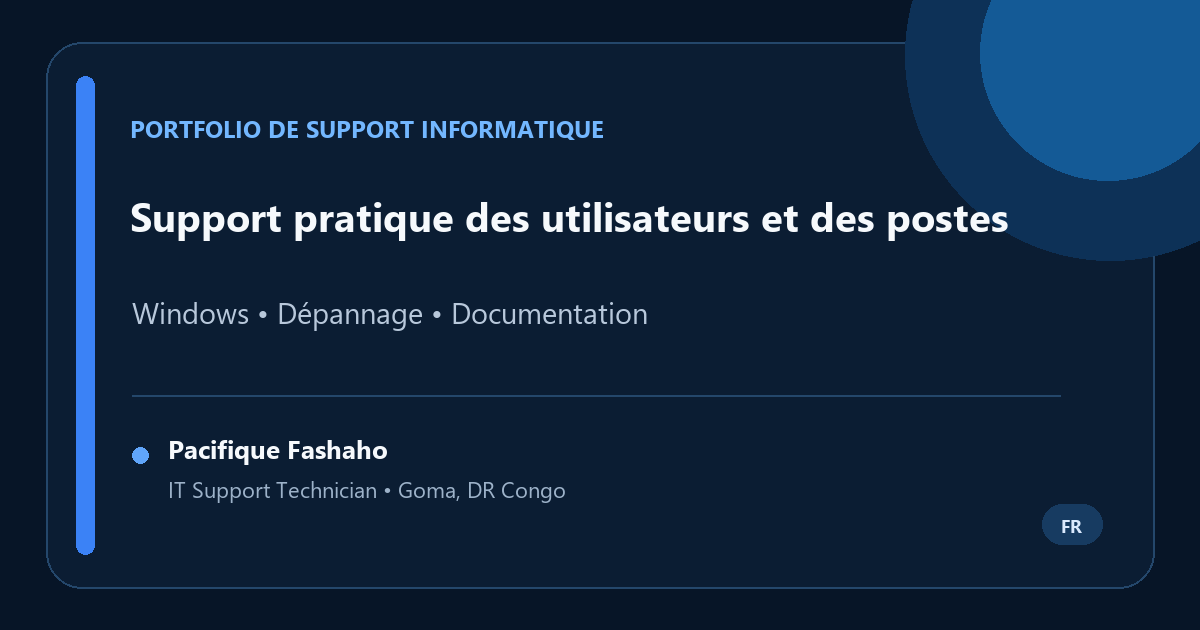
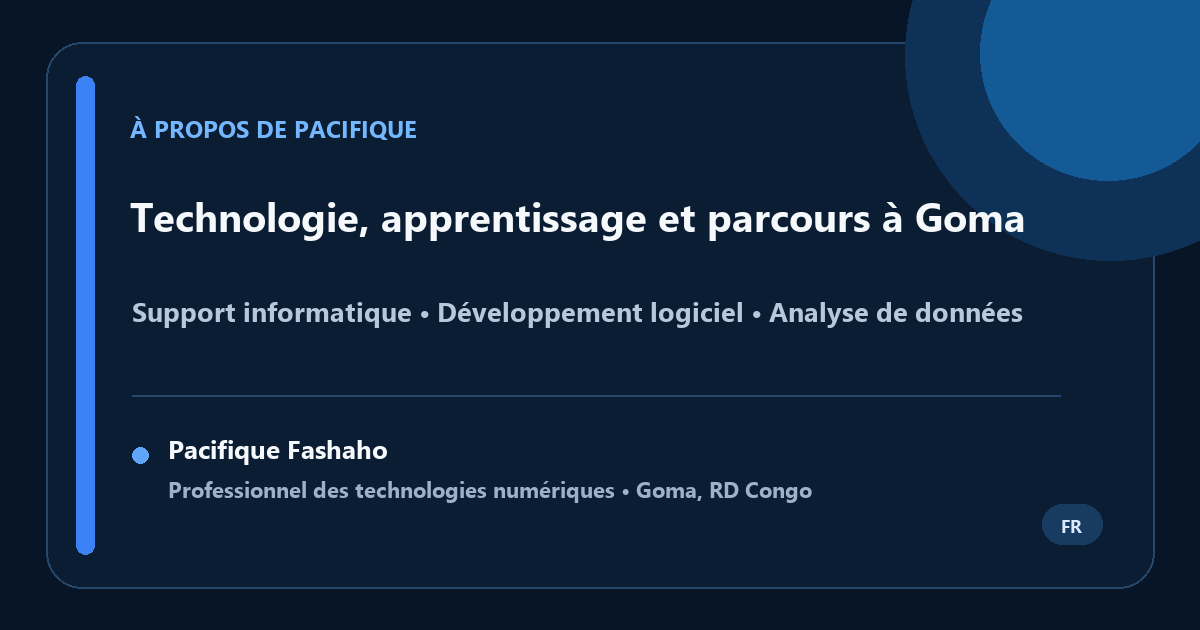
Align About visuals and navigation

diff --git a/fr/index.html b/fr/index.html
@@ -3,7 +3,7 @@
 <title>À propos de Pacifique Fashaho | Technologie, apprentissage et parcours à Goma</title><meta name="description" content="Découvrez Pacifique Fashaho, professionnel des technologies numériques à Goma, actif en support informatique, développement logiciel et analyse de données tout en poursuivant ses études en informatique." /><meta name="author" content="Pacifique Fashaho" /><meta name="robots" content="index, follow" /><meta name="theme-color" content="#2563eb" />
 <link rel="canonical" href="https://pacifiquefashaho.github.io/fr/" /><link rel="alternate" hreflang="en" href="https://pacifiquefashaho.github.io/" /><link rel="alternate" hreflang="fr" href="https://pacifiquefashaho.github.io/fr/" /><link rel="alternate" hreflang="x-default" href="https://pacifiquefashaho.github.io/" />
 <link rel="icon" href="../assets/images/ui/favicon.ico" /><link rel="apple-touch-icon" href="../assets/images/ui/apple-touch-icon.png" /><link rel="stylesheet" href="../assets/css/style.css" /><link rel="stylesheet" href="../assets/css/pages.css" /><link rel="stylesheet" href="../assets/css/about.css" />
-<meta property="og:title" content="À propos de Pacifique Fashaho | Technologie, apprentissage et parcours à Goma" /><meta property="og:description" content="Une introduction personnelle à mon travail, mon apprentissage et ma pratique technologique à Goma." /><meta property="og:image" content="https://pacifiquefashaho.github.io/assets/images/social/home-fr.png" /><meta property="og:image:type" content="image/png" /><meta property="og:image:width" content="1200" /><meta property="og:image:height" content="630" /><meta property="og:image:alt" content="Aperçu du portfolio technologique de Pacifique Fashaho" /><meta property="og:url" content="https://pacifiquefashaho.github.io/fr/" /><meta property="og:type" content="profile" /><meta property="og:site_name" content="Portfolio de Pacifique Fashaho" /><meta property="og:locale" content="fr_FR" /><meta property="og:locale:alternate" content="en_US" /><meta name="twitter:card" content="summary_large_image" /><meta name="twitter:title" content="À propos de Pacifique Fashaho" /><meta name="twitter:description" content="Mon travail, mon apprentissage et ma pratique technologique à Goma." /><meta name="twitter:image" content="https://pacifiquefashaho.github.io/assets/images/social/home-fr.png" /><meta name="twitter:image:alt" content="Aperçu du portfolio technologique de Pacifique Fashaho" />
+<meta property="og:title" content="À propos de Pacifique Fashaho | Technologie, apprentissage et parcours à Goma" /><meta property="og:description" content="Une introduction personnelle à mon travail, mon apprentissage et ma pratique technologique à Goma." /><meta property="og:image" content="https://pacifiquefashaho.github.io/assets/images/social/home-fr.png" /><meta property="og:image:type" content="image/png" /><meta property="og:image:width" content="1200" /><meta property="og:image:height" content="630" /><meta property="og:image:alt" content="À propos de Pacifique Fashaho — technologie, apprentissage et parcours à Goma" /><meta property="og:url" content="https://pacifiquefashaho.github.io/fr/" /><meta property="og:type" content="profile" /><meta property="og:site_name" content="Portfolio de Pacifique Fashaho" /><meta property="og:locale" content="fr_FR" /><meta property="og:locale:alternate" content="en_US" /><meta name="twitter:card" content="summary_large_image" /><meta name="twitter:title" content="À propos de Pacifique Fashaho" /><meta name="twitter:description" content="Mon travail, mon apprentissage et ma pratique technologique à Goma." /><meta name="twitter:image" content="https://pacifiquefashaho.github.io/assets/images/social/home-fr.png" /><meta name="twitter:image:alt" content="À propos de Pacifique Fashaho — technologie, apprentissage et parcours à Goma" />
 <script>(function(){document.documentElement.classList.add("js");try{var t=localStorage.getItem("portfolio-theme");if(t)document.documentElement.dataset.theme=t}catch(e){}})();</script><script type="application/ld+json">{"@context":"https://schema.org","@type":"ProfilePage","name":"À propos de Pacifique Fashaho","url":"https://pacifiquefashaho.github.io/fr/","inLanguage":"fr","mainEntity":{"@type":"Person","name":"Pacifique Fashaho","url":"https://pacifiquefashaho.github.io/fr/","image":"https://pacifiquefashaho.github.io/assets/images/profile/pacifique-profile.webp","jobTitle":"Professionnel des technologies numériques","homeLocation":{"@type":"Place","name":"Goma, RD Congo"},"sameAs":["https://www.linkedin.com/in/pacifique-fashaho-8ab656388","https://github.com/PacifiqueFashaho"]},"isPartOf":{"@type":"WebSite","name":"Portfolio de Pacifique Fashaho","url":"https://pacifiquefashaho.github.io/fr/"}}</script></head>
 <body class="about-page"><div id="loader" aria-hidden="true" hidden><div class="spinner"></div></div><a href="#main-content" class="skip-link">Aller au contenu</a><div class="progress-bar" id="progressBar" aria-hidden="true"></div><button id="toTop" type="button" aria-label="Retour en haut" hidden>↑ Haut</button>
 <header class="topbar has-compact-nav"><div class="wrap"><a class="brand" href="index.html" aria-label="Aller à l’accueil de Pacifique Fashaho"><span class="dot" aria-hidden="true"></span><span>Pacifique Fashaho</span></a><button class="nav-toggle" id="navToggle" type="button" aria-controls="primaryNavigation" aria-expanded="false" aria-label="Ouvrir le menu"><span class="nav-toggle-icon" aria-hidden="true"><span></span><span></span><span></span></span><span class="nav-toggle-text">Menu</span></button><nav id="primaryNavigation" aria-label="Navigation principale"><a href="portfolio.html#skills">Compétences</a><a href="portfolio.html#experience">Expérience</a><a href="projects.html">Projets</a><a class="active" href="index.html" aria-current="page">À propos</a><a href="certifications.html">Certifications</a><a class="nav-primary-action" href="portfolio.html#contact">Me contacter <span aria-hidden="true">→</span></a></nav><div class="language-switcher" aria-label="Choix de langue"><a href="../" lang="en" hreflang="en">EN</a><span class="language-switcher-separator" aria-hidden="true">/</span><a href="index.html" lang="fr" hreflang="fr" aria-current="page">FR</a></div><button class="theme-toggle" id="themeToggle" type="button" aria-label="Activer le mode sombre" aria-pressed="false"><span class="theme-toggle-icon" aria-hidden="true">☾</span><span class="theme-toggle-text">Thème</span></button></div></header>

diff --git a/assets/css/about.css b/assets/css/about.css
@@ -5,19 +5,19 @@
 .about-lede{max-width:64ch;font-size:clamp(1.05rem,2vw,1.25rem);line-height:1.75}
 .about-actions{display:flex;flex-wrap:wrap;gap:.75rem;margin:1.6rem 0}
 .about-identity{display:flex;flex-wrap:wrap;gap:.6rem;padding:0;margin:0;list-style:none}
-.about-identity li{padding:.45rem .75rem;border:1px solid var(--border);border-radius:999px;background:var(--surface)}
+.about-identity li{padding:.45rem .75rem;border:1px solid var(--line);border-radius:999px;background:var(--soft-surface)}
 .about-portrait{position:relative;margin:0;justify-self:center;max-width:25rem}
 .about-portrait::before{content:"";position:absolute;inset:-1rem 1rem 1rem -1rem;border-radius:2rem;background:linear-gradient(145deg,var(--accent),transparent 70%);opacity:.18}
-.about-portrait img{position:relative;display:block;width:100%;aspect-ratio:1/1.08;object-fit:cover;object-position:center top;border-radius:1.6rem;border:1px solid var(--border);box-shadow:var(--shadow)}
+.about-portrait img{position:relative;display:block;width:100%;aspect-ratio:1/1.08;object-fit:cover;object-position:center top;border-radius:1.6rem;border:1px solid var(--line);box-shadow:var(--shadow)}
 .about-portrait figcaption{position:relative;margin-top:.8rem;color:var(--muted);font-size:.9rem}
 .about-section{padding-block:clamp(3.5rem,8vw,7rem)}
-.about-section+.about-section{border-top:1px solid var(--border)}
+.about-section+.about-section{border-top:1px solid var(--line)}
 .about-section-head{display:grid;grid-template-columns:minmax(12rem,.55fr) minmax(0,1.45fr);gap:2rem;margin-bottom:2.5rem}
 .about-section h2{max-width:18ch;margin:.35rem 0;font-size:clamp(2rem,4vw,3.35rem);line-height:1.05;letter-spacing:-.035em}
 .about-story{max-width:72ch;font-size:1.08rem;line-height:1.8}
 .about-story p:first-child{font-size:1.25rem;color:var(--text)}
 .about-grid{display:grid;grid-template-columns:repeat(3,minmax(0,1fr));gap:1rem}
-.about-tile{display:flex;flex-direction:column;padding:clamp(1.25rem,3vw,2rem);border:1px solid var(--border);border-radius:1.25rem;background:var(--card)}
+.about-tile{display:flex;flex-direction:column;padding:clamp(1.25rem,3vw,2rem);border:1px solid var(--line);border-radius:1.25rem;background:var(--card)}
 .about-tile__number{color:var(--accent);font-weight:800}
 .about-tile h3{margin:.75rem 0;font-size:1.35rem}
 .about-tile p{line-height:1.7}
@@ -26,14 +26,14 @@
 .about-place{padding:1.5rem;border-left:3px solid var(--accent);background:color-mix(in srgb,var(--card) 92%,var(--accent) 8%);border-radius:0 1rem 1rem 0}
 .about-place span{display:block;color:var(--muted);font-size:.85rem;font-weight:700;text-transform:uppercase;letter-spacing:.08em}
 .about-values{display:grid;grid-template-columns:repeat(2,minmax(0,1fr));gap:1rem}
-.about-value{padding:1.35rem 0;border-top:1px solid var(--border)}
+.about-value{padding:1.35rem 0;border-top:1px solid var(--line)}
 .about-value h3{margin:.2rem 0 .5rem}
 .about-timeline{position:relative;display:grid;gap:0;margin:0;padding:0;list-style:none}
-.about-timeline::before{content:"";position:absolute;left:6.1rem;top:.7rem;bottom:.7rem;width:1px;background:var(--border)}
+.about-timeline::before{content:"";position:absolute;left:6.1rem;top:.7rem;bottom:.7rem;width:1px;background:var(--line)}
 .about-timeline li{display:grid;grid-template-columns:5rem 1fr;gap:2.2rem;padding:1rem 0}
 .about-timeline time{font-weight:800;color:var(--accent);text-align:right}
 .about-timeline p{position:relative;margin:0}
-.about-timeline p::before{content:"";position:absolute;left:-2.55rem;top:.42rem;width:.68rem;height:.68rem;border:3px solid var(--surface);border-radius:50%;background:var(--accent)}
+.about-timeline p::before{content:"";position:absolute;left:-2.55rem;top:.42rem;width:.68rem;height:.68rem;border:3px solid var(--bg);border-radius:50%;background:var(--accent)}
 .about-explore{text-align:center;padding:clamp(2rem,6vw,4.5rem)}
 .about-explore h2{margin-inline:auto}.about-explore p{max-width:62ch;margin:1rem auto 1.5rem}
 .about-link-grid{display:flex;flex-wrap:wrap;justify-content:center;gap:.65rem}

diff --git a/index.html b/index.html
@@ -10,8 +10,8 @@
   <link rel="alternate" hreflang="en" href="https://pacifiquefashaho.github.io/" /><link rel="alternate" hreflang="fr" href="https://pacifiquefashaho.github.io/fr/" /><link rel="alternate" hreflang="x-default" href="https://pacifiquefashaho.github.io/" />
   <link rel="icon" href="assets/images/ui/favicon.ico" /><link rel="apple-touch-icon" href="assets/images/ui/apple-touch-icon.png" />
   <link rel="stylesheet" href="assets/css/style.css" /><link rel="stylesheet" href="assets/css/pages.css" /><link rel="stylesheet" href="assets/css/about.css" />
-  <meta property="og:title" content="About Pacifique Fashaho | Technology, Learning &amp; Life in Goma" /><meta property="og:description" content="A personal introduction to my work, learning path, and technology practice in Goma." /><meta property="og:image" content="https://pacifiquefashaho.github.io/assets/images/social/home.png" /><meta property="og:image:type" content="image/png" /><meta property="og:image:width" content="1200" /><meta property="og:image:height" content="630" /><meta property="og:image:alt" content="Pacifique Fashaho technology portfolio preview" /><meta property="og:url" content="https://pacifiquefashaho.github.io/" /><meta property="og:type" content="profile" /><meta property="og:site_name" content="Pacifique Fashaho Portfolio" /><meta property="og:locale" content="en_US" /><meta property="og:locale:alternate" content="fr_FR" />
-  <meta name="twitter:card" content="summary_large_image" /><meta name="twitter:title" content="About Pacifique Fashaho" /><meta name="twitter:description" content="My work, learning path, and technology practice in Goma." /><meta name="twitter:image" content="https://pacifiquefashaho.github.io/assets/images/social/home.png" /><meta name="twitter:image:alt" content="Pacifique Fashaho technology portfolio preview" />
+  <meta property="og:title" content="About Pacifique Fashaho | Technology, Learning &amp; Life in Goma" /><meta property="og:description" content="A personal introduction to my work, learning path, and technology practice in Goma." /><meta property="og:image" content="https://pacifiquefashaho.github.io/assets/images/social/home.png" /><meta property="og:image:type" content="image/png" /><meta property="og:image:width" content="1200" /><meta property="og:image:height" content="630" /><meta property="og:image:alt" content="About Pacifique Fashaho — technology, learning, and life in Goma" /><meta property="og:url" content="https://pacifiquefashaho.github.io/" /><meta property="og:type" content="profile" /><meta property="og:site_name" content="Pacifique Fashaho Portfolio" /><meta property="og:locale" content="en_US" /><meta property="og:locale:alternate" content="fr_FR" />
+  <meta name="twitter:card" content="summary_large_image" /><meta name="twitter:title" content="About Pacifique Fashaho" /><meta name="twitter:description" content="My work, learning path, and technology practice in Goma." /><meta name="twitter:image" content="https://pacifiquefashaho.github.io/assets/images/social/home.png" /><meta name="twitter:image:alt" content="About Pacifique Fashaho — technology, learning, and life in Goma" />
   <script>(function(){document.documentElement.classList.add("js");try{var t=localStorage.getItem("portfolio-theme");if(t)document.documentElement.dataset.theme=t}catch(e){}})();</script>
   <script type="application/ld+json">{"@context":"https://schema.org","@type":"ProfilePage","name":"About Pacifique Fashaho","url":"https://pacifiquefashaho.github.io/","inLanguage":"en","mainEntity":{"@type":"Person","name":"Pacifique Fashaho","url":"https://pacifiquefashaho.github.io/","image":"https://pacifiquefashaho.github.io/assets/images/profile/pacifique-profile.webp","jobTitle":"Technology Professional","homeLocation":{"@type":"Place","name":"Goma, DR Congo"},"sameAs":["https://www.linkedin.com/in/pacifique-fashaho-8ab656388","https://github.com/PacifiqueFashaho"]},"isPartOf":{"@type":"WebSite","name":"Pacifique Fashaho Portfolio","url":"https://pacifiquefashaho.github.io/"}}</script>
 </head>

diff --git a/fr/it-support-knowledge.html b/fr/it-support-knowledge.html
@@ -51,7 +51,7 @@
   <header class="topbar has-compact-nav"><div class="wrap">
     <a class="brand" href="index.html" aria-label="Aller à la page d’accueil de Pacifique Fashaho"><span class="dot" aria-hidden="true"></span><span>Pacifique Fashaho</span></a>
     <button class="nav-toggle" id="navToggle" type="button" aria-controls="primaryNavigation" aria-expanded="false" aria-label="Ouvrir le menu de navigation"><span class="nav-toggle-icon" aria-hidden="true"><span></span><span></span><span></span></span><span class="nav-toggle-text">Menu</span></button>
-    <nav id="primaryNavigation" aria-label="Navigation principale"><a href="portfolio.html#skills">Compétences</a><a href="portfolio.html#experience">Expérience</a><a class="active" href="projects.html">Projets</a><a href="index.html">À propos</a><a href="certifications.html">Certifications</a><a href="portfolio.html#services">Services</a><a class="nav-primary-action" href="portfolio.html#contact">Me contacter <span aria-hidden="true">&rarr;</span></a></nav>
+    <nav id="primaryNavigation" aria-label="Navigation principale"><a href="portfolio.html#skills">Compétences</a><a href="portfolio.html#experience">Expérience</a><a href="projects.html">Projets</a><a href="index.html">À propos</a><a href="certifications.html">Certifications</a><a href="portfolio.html#services">Services</a><a class="nav-primary-action" href="portfolio.html#contact">Me contacter <span aria-hidden="true">&rarr;</span></a></nav>
     <div class="language-switcher" aria-label="Sélection de la langue"><a href="../it-support-knowledge.html" lang="en" hreflang="en">EN</a><span class="language-switcher-separator" aria-hidden="true">/</span><a href="it-support-knowledge.html" lang="fr" hreflang="fr" aria-current="page">FR</a></div>
     <button class="theme-toggle" id="themeToggle" type="button" aria-label="Passer au mode sombre" aria-pressed="false"><span class="theme-toggle-icon" aria-hidden="true">☾</span><span class="theme-toggle-text">Thème</span></button>
   </div></header>

diff --git a/it-support-knowledge.html b/it-support-knowledge.html
@@ -51,7 +51,7 @@
   <header class="topbar has-compact-nav"><div class="wrap">
     <a class="brand" href="index.html" aria-label="Go to Pacifique Fashaho homepage"><span class="dot" aria-hidden="true"></span><span>Pacifique Fashaho</span></a>
     <button class="nav-toggle" id="navToggle" type="button" aria-controls="primaryNavigation" aria-expanded="false" aria-label="Open navigation menu"><span class="nav-toggle-icon" aria-hidden="true"><span></span><span></span><span></span></span><span class="nav-toggle-text">Menu</span></button>
-    <nav id="primaryNavigation" aria-label="Primary navigation"><a href="portfolio.html#skills">Skills</a><a href="portfolio.html#experience">Experience</a><a class="active" href="projects.html">Projects</a><a href="index.html">About</a><a href="certifications.html">Certifications</a><a href="portfolio.html#services">Services</a><a class="nav-primary-action" href="portfolio.html#contact">Contact Me <span aria-hidden="true">&rarr;</span></a></nav>
+    <nav id="primaryNavigation" aria-label="Primary navigation"><a href="portfolio.html#skills">Skills</a><a href="portfolio.html#experience">Experience</a><a href="projects.html">Projects</a><a href="index.html">About</a><a href="certifications.html">Certifications</a><a href="portfolio.html#services">Services</a><a class="nav-primary-action" href="portfolio.html#contact">Contact Me <span aria-hidden="true">&rarr;</span></a></nav>
     <div class="language-switcher" aria-label="Language selection"><a href="it-support-knowledge.html" lang="en" hreflang="en" aria-current="page">EN</a><span class="language-switcher-separator" aria-hidden="true">/</span><a href="fr/it-support-knowledge.html" lang="fr" hreflang="fr">FR</a></div>
     <button class="theme-toggle" id="themeToggle" type="button" aria-label="Switch to dark mode" aria-pressed="false"><span class="theme-toggle-icon" aria-hidden="true">☾</span><span class="theme-toggle-text">Theme</span></button>
   </div></header>

diff --git a/scripts/generate_social_cards.py b/scripts/generate_social_cards.py
@@ -9,8 +9,8 @@ OUTPUT = ROOT / "assets" / "images" / "social"
 WIDTH, HEIGHT = 1200, 630
 
 CARDS = {
-    "home.png": ("IT SUPPORT PORTFOLIO", "Practical Support for Users & Workstations", "Windows • Troubleshooting • Documentation", "EN"),
-    "home-fr.png": ("PORTFOLIO DE SUPPORT INFORMATIQUE", "Support pratique des utilisateurs et des postes", "Windows • Dépannage • Documentation", "FR"),
+    "home.png": ("ABOUT PACIFIQUE", "Technology, Learning & Life in Goma", "IT Support • Software Development • Data Analytics", "EN", "Technology Professional • Goma, DR Congo"),
+    "home-fr.png": ("À PROPOS DE PACIFIQUE", "Technologie, apprentissage et parcours à Goma", "Support informatique • Développement logiciel • Analyse de données", "FR", "Professionnel des technologies numériques • Goma, RD Congo"),
     "projects.png": ("PROJECT PORTFOLIO", "Practical IT Support Projects", "Windows • Workstations • Networks • Printers", "EN"),
     "projects-fr.png": ("PORTFOLIO DE PROJETS", "Projets pratiques de support informatique", "Windows • Postes • Réseaux • Imprimantes", "FR"),
     "it-support-workflow.png": ("IT SUPPORT CASE STUDY", "Workstation Setup & Troubleshooting", "8-stage method • 6 validation checks", "EN"),
@@ -31,9 +31,15 @@ def font(name: str, size: int) -> ImageFont.FreeTypeFont:
     return ImageFont.truetype(str(Path("C:/Windows/Fonts") / name), size)
 
 
-def fit_text(draw: ImageDraw.ImageDraw, value: str, maximum: int, initial: int = 62) -> ImageFont.FreeTypeFont:
+def fit_text(
+    draw: ImageDraw.ImageDraw,
+    value: str,
+    maximum: int,
+    initial: int = 62,
+    minimum: int = 38,
+) -> ImageFont.FreeTypeFont:
     size = initial
-    while size > 38:
+    while size > minimum:
         candidate = font("segoeuib.ttf", size)
         if draw.textbbox((0, 0), value, font=candidate)[2] <= maximum:
             return candidate
@@ -41,7 +47,14 @@ def fit_text(draw: ImageDraw.ImageDraw, value: str, maximum: int, initial: int =
     return font("segoeuib.ttf", size)
 
 
-def generate(filename: str, eyebrow: str, title: str, detail: str, language: str) -> None:
+def generate(
+    filename: str,
+    eyebrow: str,
+    title: str,
+    detail: str,
+    language: str,
+    role: str = "IT Support Technician • Goma, DR Congo",
+) -> None:
     image = Image.new("RGB", (WIDTH, HEIGHT), "#071527")
     draw = ImageDraw.Draw(image)
 
@@ -53,9 +66,9 @@ def generate(filename: str, eyebrow: str, title: str, detail: str, language: str
 
     eyebrow_font = font("segoeuib.ttf", 24)
     title_font = fit_text(draw, title, 900)
-    detail_font = font("segoeui.ttf", 29)
+    detail_font = fit_text(draw, detail, 900, initial=29, minimum=20)
     brand_font = font("segoeuib.ttf", 26)
-    role_font = font("segoeui.ttf", 22)
+    role_font = fit_text(draw, role, 850, initial=22, minimum=18)
     badge_font = font("segoeuib.ttf", 18)
 
     draw.text((130, 112), eyebrow, font=eyebrow_font, fill="#73b7ff")
@@ -64,7 +77,7 @@ def generate(filename: str, eyebrow: str, title: str, detail: str, language: str
     draw.line((132, 395, 1060, 395), fill="#24476b", width=2)
     draw.ellipse((132, 447, 148, 463), fill="#60a5fa")
     draw.text((168, 430), "Pacifique Fashaho", font=brand_font, fill="#f6f9fc")
-    draw.text((168, 474), "IT Support Technician • Goma, DR Congo", font=role_font, fill="#9db2c9")
+    draw.text((168, 474), role, font=role_font, fill="#9db2c9")
     draw.rounded_rectangle((1042, 504, 1102, 544), radius=20, fill="#173b61")
     bbox = draw.textbbox((0, 0), language, font=badge_font)
     draw.text((1072 - (bbox[2] - bbox[0]) / 2, 513), language, font=badge_font, fill="#dbeafe")

diff --git a/scripts/validate_site.py b/scripts/validate_site.py
@@ -831,6 +831,14 @@ def validate_css(errors: list[str]) -> None:
                 f"{stylesheet}: missing url() asset: {reference}",
             )
 
+    about_css = read_text("assets/css/about.css", errors)
+    if about_css is not None:
+        add_error(
+            errors,
+            "var(--border)" not in about_css and "var(--surface)" not in about_css,
+            "assets/css/about.css: uses undefined legacy design tokens",
+        )
+
 
 def validate_css_architecture(
     parsed_pages: dict[str, PortfolioHTMLParser],
@@ -1788,6 +1796,16 @@ def validate_knowledge_hub_navigation(
                 )
             ),
             f"{hub_page}: knowledge hub category anchors are incomplete",
+        )
+        primary_navigation = re.search(
+            r'<nav id="primaryNavigation"[\s\S]*?</nav>', source
+        )
+        add_error(
+            errors,
+            bool(primary_navigation)
+            and 'class="active" href="projects.html"'
+            not in primary_navigation.group(0),
+            f"{hub_page}: Projects must not appear active on the knowledge hub",
         )
 
 
